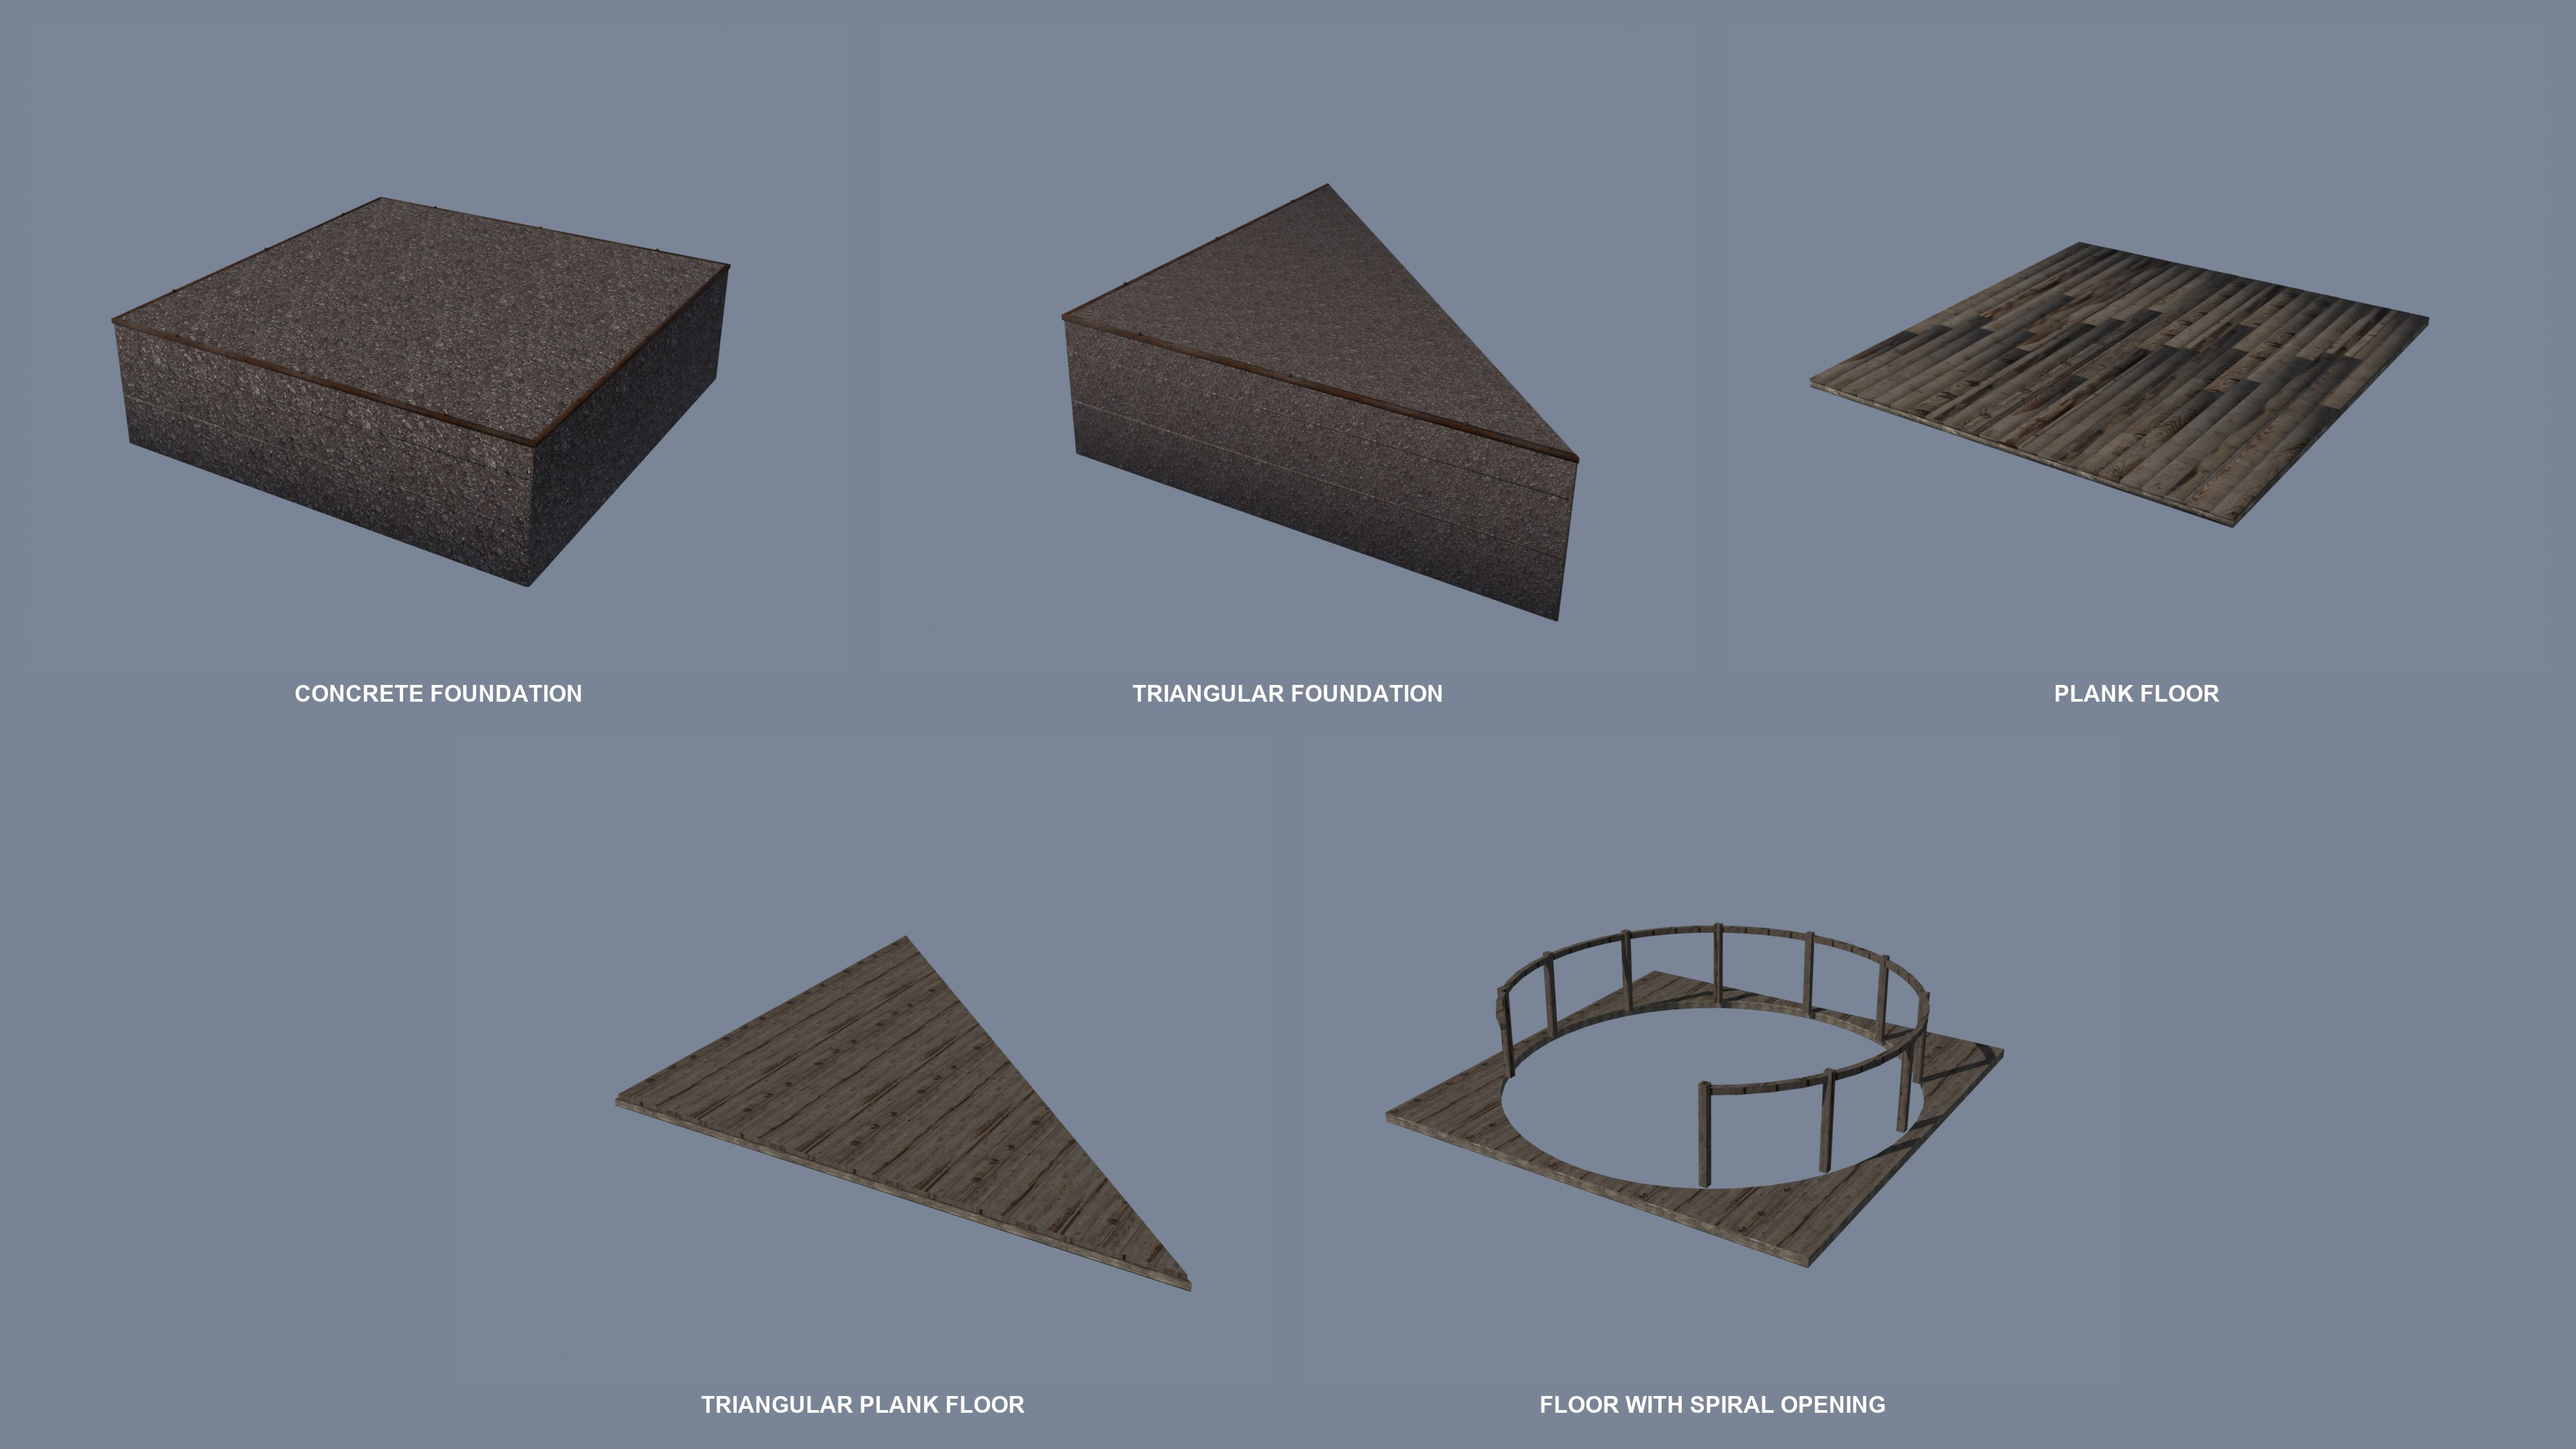
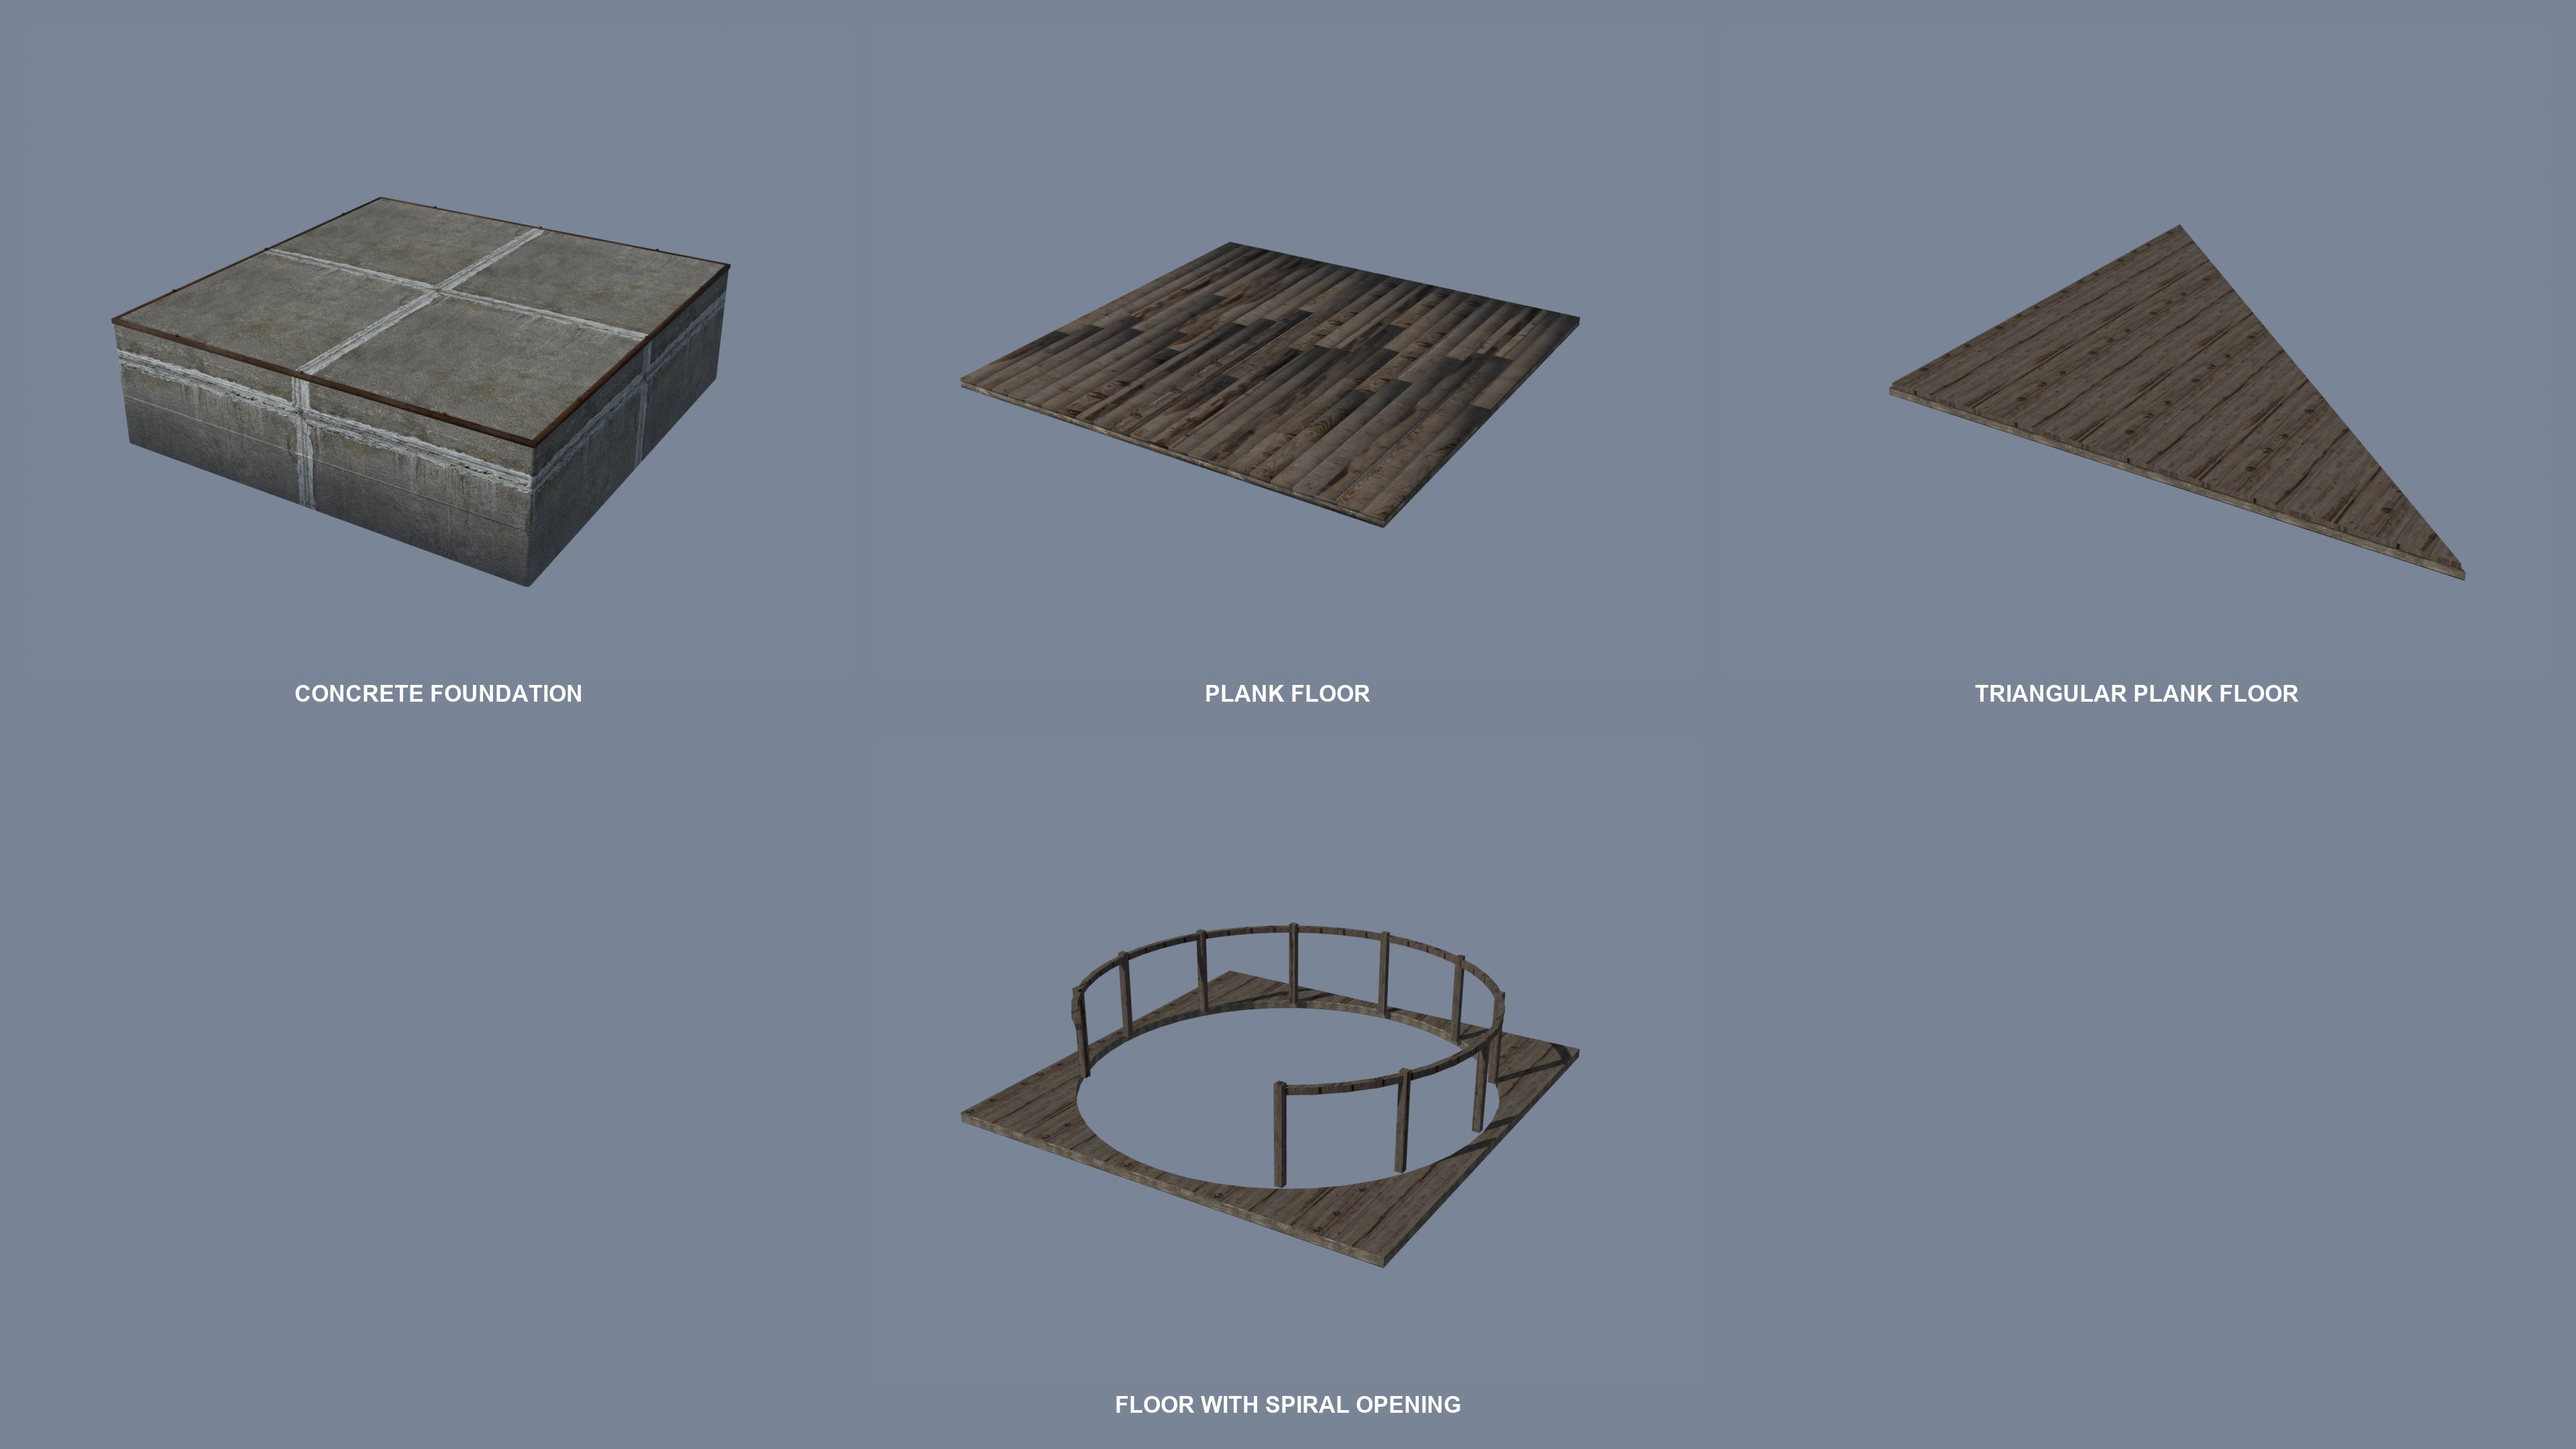
Collages for all mod models; floors re-rendered with new foundation texture

diff --git a/docs/readme_collage_snippet.md b/docs/readme_collage_snippet.md
@@ -1,5 +1,23 @@
-<!-- Replacement for the per-piece hero tables in README "Building Kit & Snapping". Drop in at release time. -->
+<!-- Release-time replacement for the per-item hero images in README.md. Do not apply before a release.
+Replaces these README lines (one <img> per line today):
+ - crafting/station tables (README ~48-69): hero_distiller, hero_ammo_bench, hero_wood_station, hero_generator_station, hero_repair_bench, hero_hunter_station, hero_farmer_station, hero_market_stall, hero_field_kitchen, hero_field_infirmary, hero_guard_post, hero_salvage_table
+ - water purifier (~76): hero_water_purifier
+ - settlement flag (~81): hero_settlement_flag (keep hero_settlement_flag_factions, it shows the 12 banners)
+ - storage table (~90-98): hero_armory_crate, hero_quartermaster_locker, hero_med_crate, hero_pantry, hero_supply_crate
+ - building kit (~171-188): hero_foundation, hero_floor, hero_wall_window, hero_wall_gable, hero_stairs, hero_roof_flat, hero_roof_slope, hero_roof_hip, hero_roof_valley, hero_roof_pyramid
+ hero_*.jpg files can stay in docs/images or be deleted afterwards.
+ Not pictured: farm_grain / farm_potato (crop props, no .object source). collage_floors.jpg still lacks the triangular foundation (model being rebuilt); re-run then. -->
 
+### Crafting & workstations
+<p align="center"><img src="docs/images/collage_workstations.jpg?v=1" alt="Crafting and workstations"><br><sub>Ammunition crafting bench · Gunsmith &amp; armor repair bench · Salvage table · Electrician generator bench · Moonshine distiller · Woodcutter station</sub></p>
+
+### Production, food & care
+<p align="center"><img src="docs/images/collage_services.jpg?v=1" alt="Production, food and care stations"><br><sub>Hunter butchering station · Farmer station · Market stall · Field kitchen · Field infirmary · Water purifier</sub></p>
+
+### Storage & camp
+<p align="center"><img src="docs/images/collage_storage.jpg?v=1" alt="Storage, guard post and flag"><br><sub>Armory crate · Quartermaster locker · Med crate · Pantry · Supply crate · Guard post · Settlement flag</sub></p>
+
+### Building kit
 <p align="center"><img src="docs/images/collage_walls.jpg?v=1" alt="Walls, doorway and support post"><br><sub><b>Walls &amp; doorways</b> · Low plank wall · Plank wall with loophole · Plank wall with window · Plank gable wall · Wide plank doorway · Wooden support post</sub></p>
 
 <p align="center"><img src="docs/images/collage_floors.jpg?v=1" alt="Foundations and floors"><br><sub><b>Foundations &amp; floors</b> · Concrete foundation · Triangular foundation · Plank floor · Triangular plank floor · Floor with spiral opening</sub></p>
